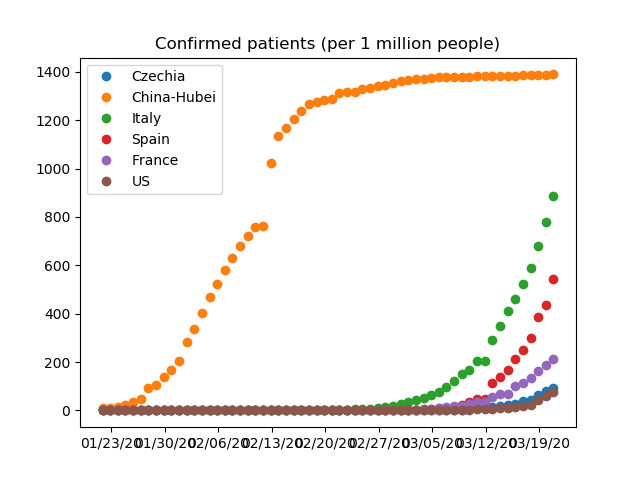
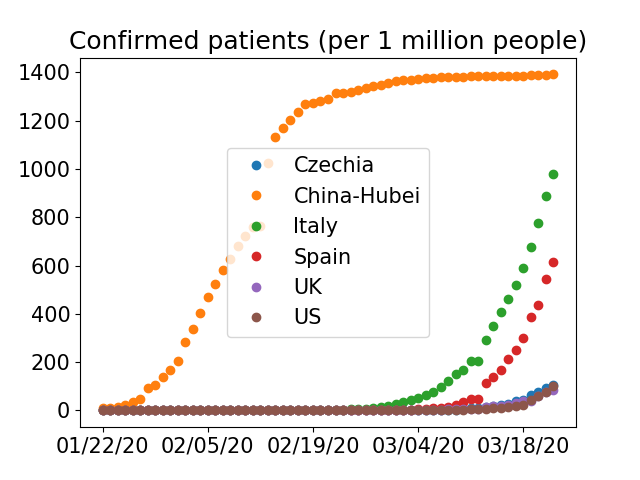
Increased font size.

diff --git a/WorldCountriesData.py b/WorldCountriesData.py
@@ -1,6 +1,12 @@
 from datetime import timedelta, date
 import numpy as np
 
+countries = ['Czechia', 'China-Hubei', 'Italy', 'Spain', 'UK', 'US']
+#countries = ['Czechia', 'Spain', 'California', 'Ecuador']
+# Fill the data on one-day-basis
+start_date = date(2020, 1, 22)
+end_date = date.today()
+
 def daterange(start_date, end_date):
   for n in range(int ((end_date - start_date).days)):
     yield start_date + timedelta(n)
@@ -78,23 +84,25 @@ WorldCountries.update({'Germany' : countryData(['Germany'], 82.79e6)})
 WorldCountries.update({'UK' : countryData(['UK', 'United Kingdom'], 66.44e6)})
 WorldCountries.update({'Russia' : countryData(['Russia'], 144.5e6)})
 
-countries = ['Czechia', 'China-Hubei', 'Italy', 'Spain', 'France', 'US']
-#countries = ['Czechia', 'Spain', 'California', 'Ecuador']
-# Fill the data on one-day-basis
-start_date = date(2020, 1, 22)
-end_date = date.today()
+# Fill the data on one-day-basis.
 for country in countries:
   for single_date in daterange(start_date, end_date):
     WorldCountries[country].AddDayFromCSV(single_date.isoformat())
 
 # PLOT DATA
+import matplotlib
 import matplotlib.pyplot as plt
 from matplotlib.dates import (WEEKLY, DateFormatter,
                               rrulewrapper, RRuleLocator)
 
+font = {'family' : 'Sans',
+        #'weight' : 'bold',
+        'size'   : 15}
+matplotlib.rc('font', **font)
+
 fig, ax = plt.subplots()
 plt.title('Dead patients (per 1 million people)')
-rule = rrulewrapper(WEEKLY)#, interval=5)
+rule = rrulewrapper(WEEKLY, interval=2)
 loc = RRuleLocator(rule)
 ax.xaxis.set_major_locator(loc)
 formatter = DateFormatter('%m/%d/%y')
@@ -108,7 +116,7 @@ plt.savefig('dead.png')
 
 fig, ax = plt.subplots()
 plt.title('Confirmed patients (per 1 million people)')
-rule = rrulewrapper(WEEKLY)#, interval=5)
+rule = rrulewrapper(WEEKLY, interval=2)
 loc = RRuleLocator(rule)
 ax.xaxis.set_major_locator(loc)
 formatter = DateFormatter('%m/%d/%y')
